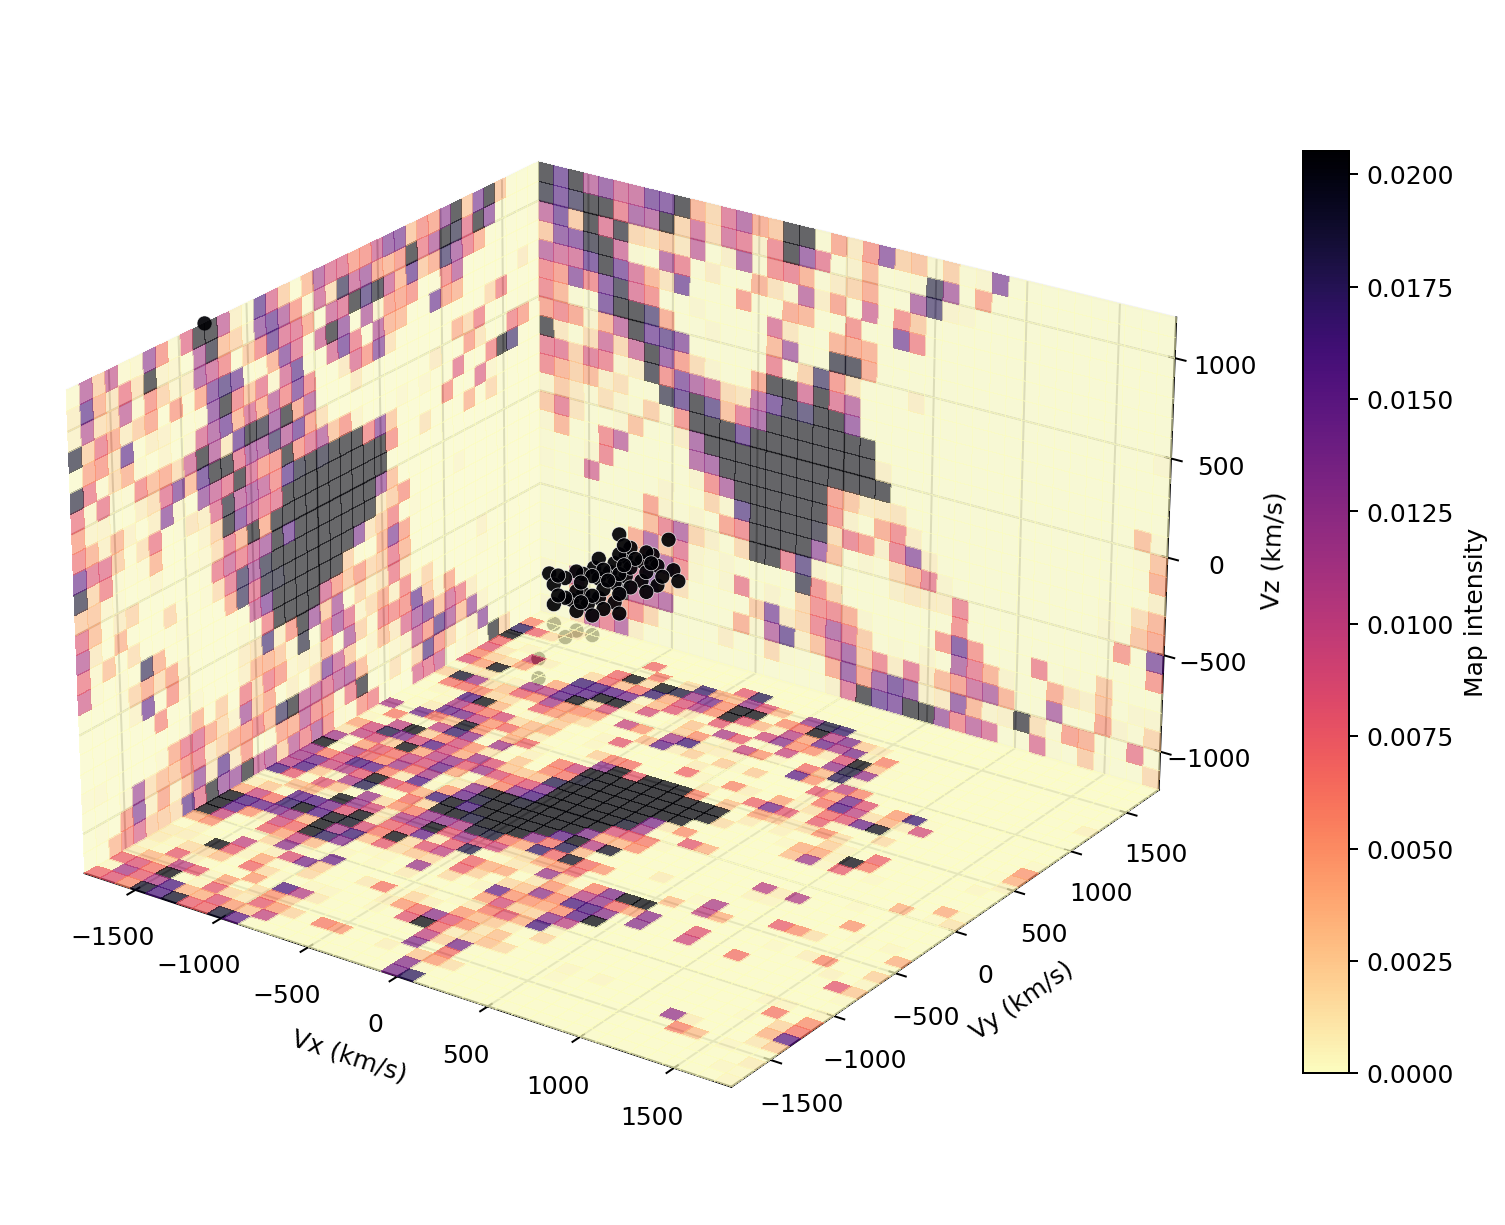
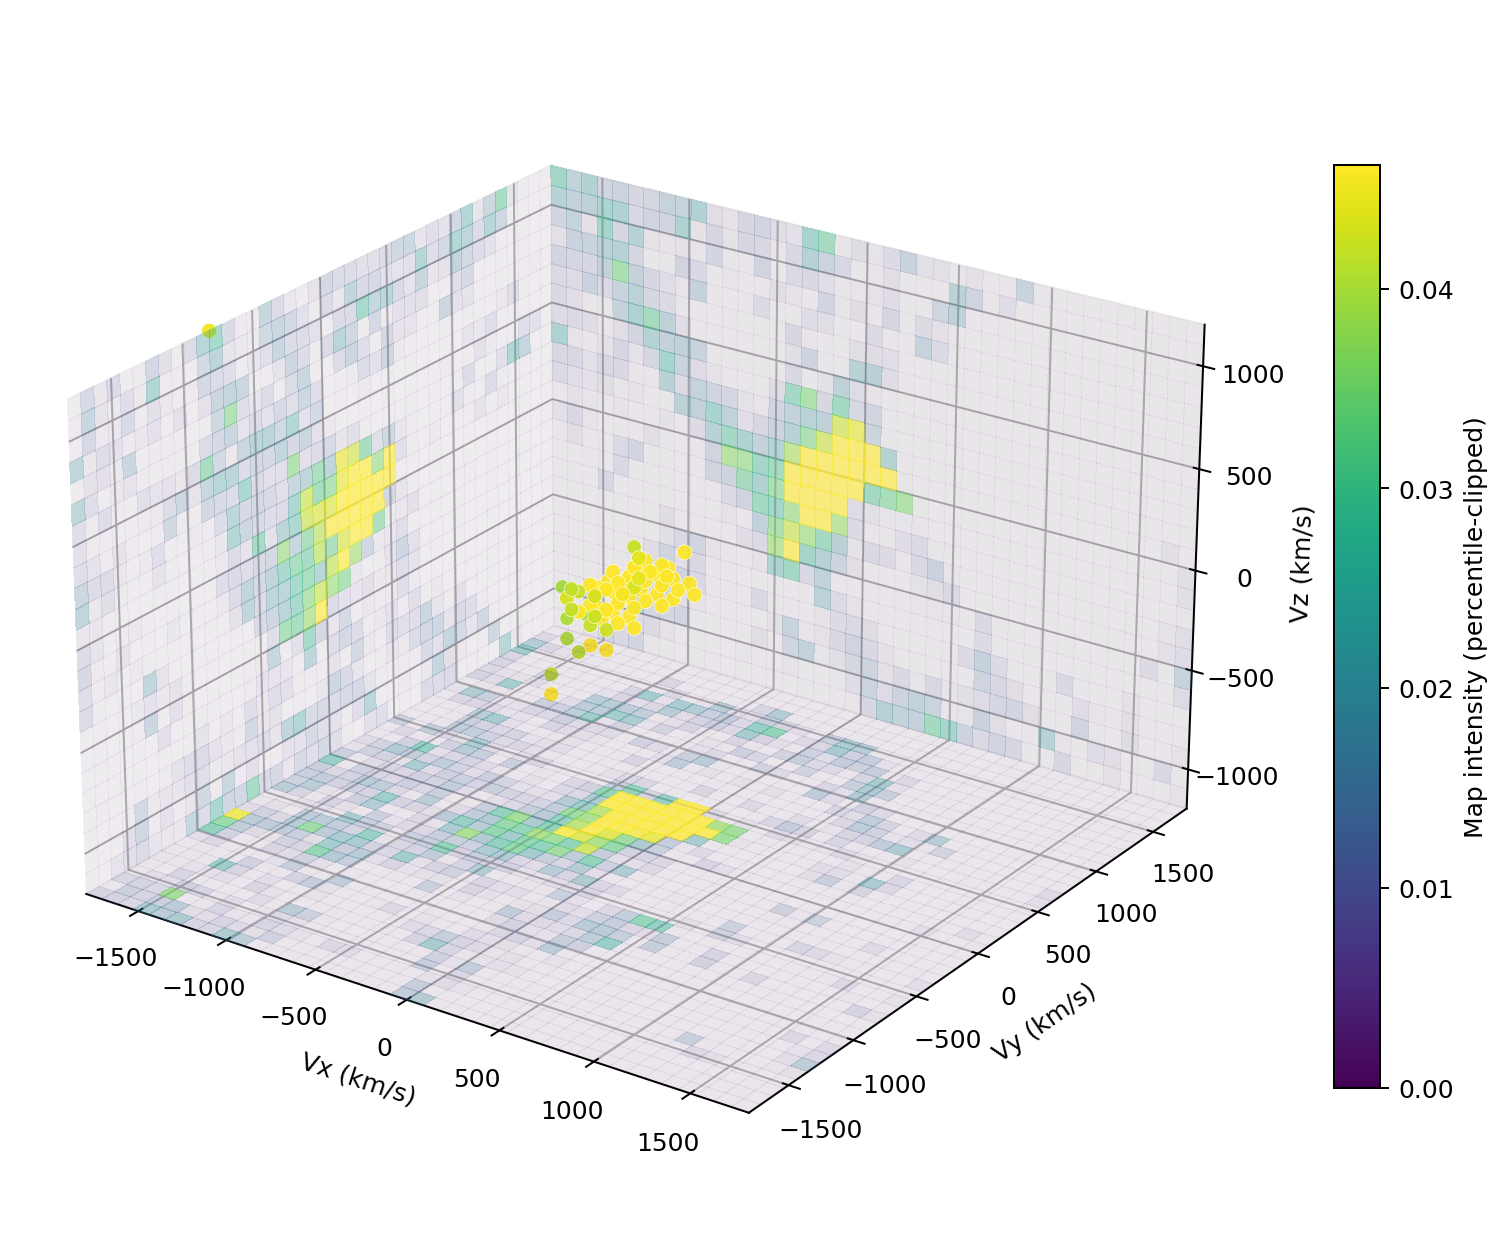
Improve 3D preview color scaling

diff --git a/pydoppler3d/visualize.py b/pydoppler3d/visualize.py
@@ -417,13 +417,13 @@ def save_volume_scatter_preview(
     doppler_map: DopplerMap,
     output: str | Path,
     *,
-    percentile: float = 99.5,
+    percentile: float = 99.9,
     point_percentile: float = 99.85,
     max_points: int = 90,
-    cmap: str = "magma_r",
+    cmap: str = "viridis",
     dpi: int = 180,
 ) -> Path:
-    """Save a static 3D overview with orthogonal projections and peak voxels."""
+    """Save a static 3D overview with transparent projections and peak voxels."""
 
     plt = _pyplot()
     output = Path(output)
@@ -443,9 +443,10 @@ def save_volume_scatter_preview(
     cmap_obj = plt.get_cmap(cmap)
     normalizer = plt.Normalize(vmin=vmin, vmax=vmax)
 
-    def colors(values: np.ndarray, *, alpha: float) -> np.ndarray:
-        out = cmap_obj(normalizer(values))
-        out[..., -1] = alpha
+    def colors(values: np.ndarray, *, max_alpha: float) -> np.ndarray:
+        scaled = np.clip(normalizer(values), 0.0, 1.0)
+        out = cmap_obj(scaled)
+        out[..., -1] = max_alpha * (0.08 + 0.92 * scaled)
         return out
 
     vx, vy, vz = grid.mesh()
@@ -461,7 +462,7 @@ def save_volume_scatter_preview(
         xx,
         yy,
         np.full_like(xx, grid.vz[0]),
-        facecolors=colors(xy, alpha=0.72),
+        facecolors=colors(xy, max_alpha=0.72),
         rstride=1,
         cstride=1,
         linewidth=0,
@@ -474,7 +475,7 @@ def save_volume_scatter_preview(
         xx,
         np.full_like(xx, grid.vy[-1]),
         zz,
-        facecolors=colors(xz, alpha=0.58),
+        facecolors=colors(xz, max_alpha=0.58),
         rstride=1,
         cstride=1,
         linewidth=0,
@@ -487,7 +488,7 @@ def save_volume_scatter_preview(
         np.full_like(yy, grid.vx[0]),
         yy,
         zz,
-        facecolors=colors(yz, alpha=0.58),
+        facecolors=colors(yz, max_alpha=0.58),
         rstride=1,
         cstride=1,
         linewidth=0,
@@ -525,7 +526,13 @@ def save_volume_scatter_preview(
 
     scalar = plt.cm.ScalarMappable(norm=normalizer, cmap=cmap_obj)
     scalar.set_array([])
-    fig.colorbar(scalar, ax=ax, shrink=0.72, pad=0.08, label="Map intensity")
+    fig.colorbar(
+        scalar,
+        ax=ax,
+        shrink=0.72,
+        pad=0.08,
+        label="Map intensity (percentile-clipped)",
+    )
     ax.set_xlabel("Vx (km/s)")
     ax.set_ylabel("Vy (km/s)")
     ax.set_zlabel("Vz (km/s)")

diff --git a/README.md b/README.md
@@ -318,7 +318,8 @@
   For exploratory 3D inspection, use the static cube overview and the
   interactive HTML isosurface. The static preview shows three orthogonal
   maximum-intensity projections on the cube walls, plus only the brightest
-  compact voxels inside the cube:
+  compact voxels inside the cube. It uses a perceptually uniform, percentile-
+  clipped intensity scale with faint projection pixels made more transparent:
 
   ```python
   from pydoppler3d import plot_map_volume_html, save_volume_scatter_preview
